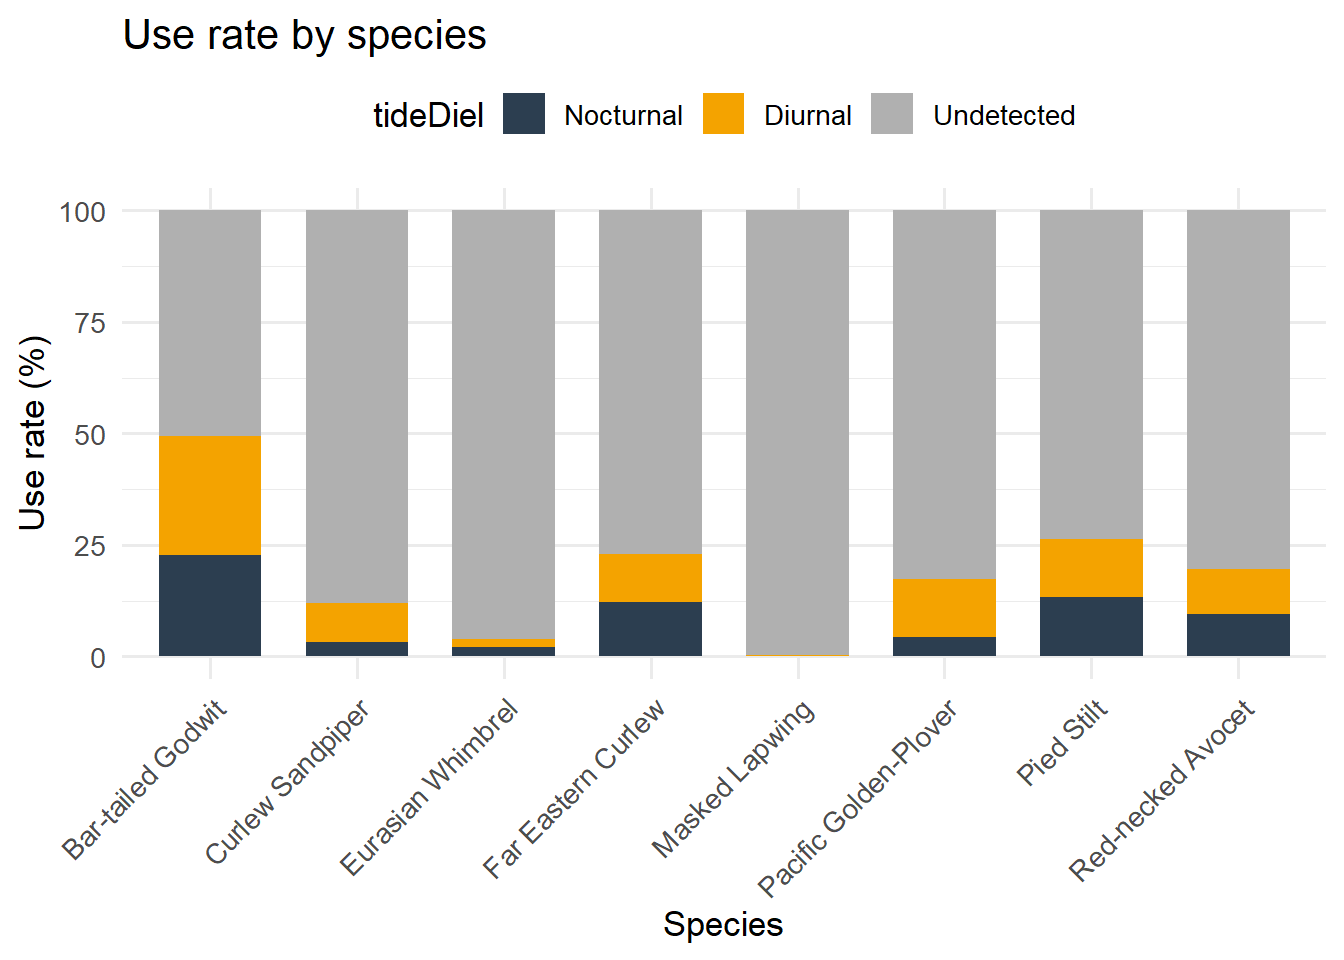
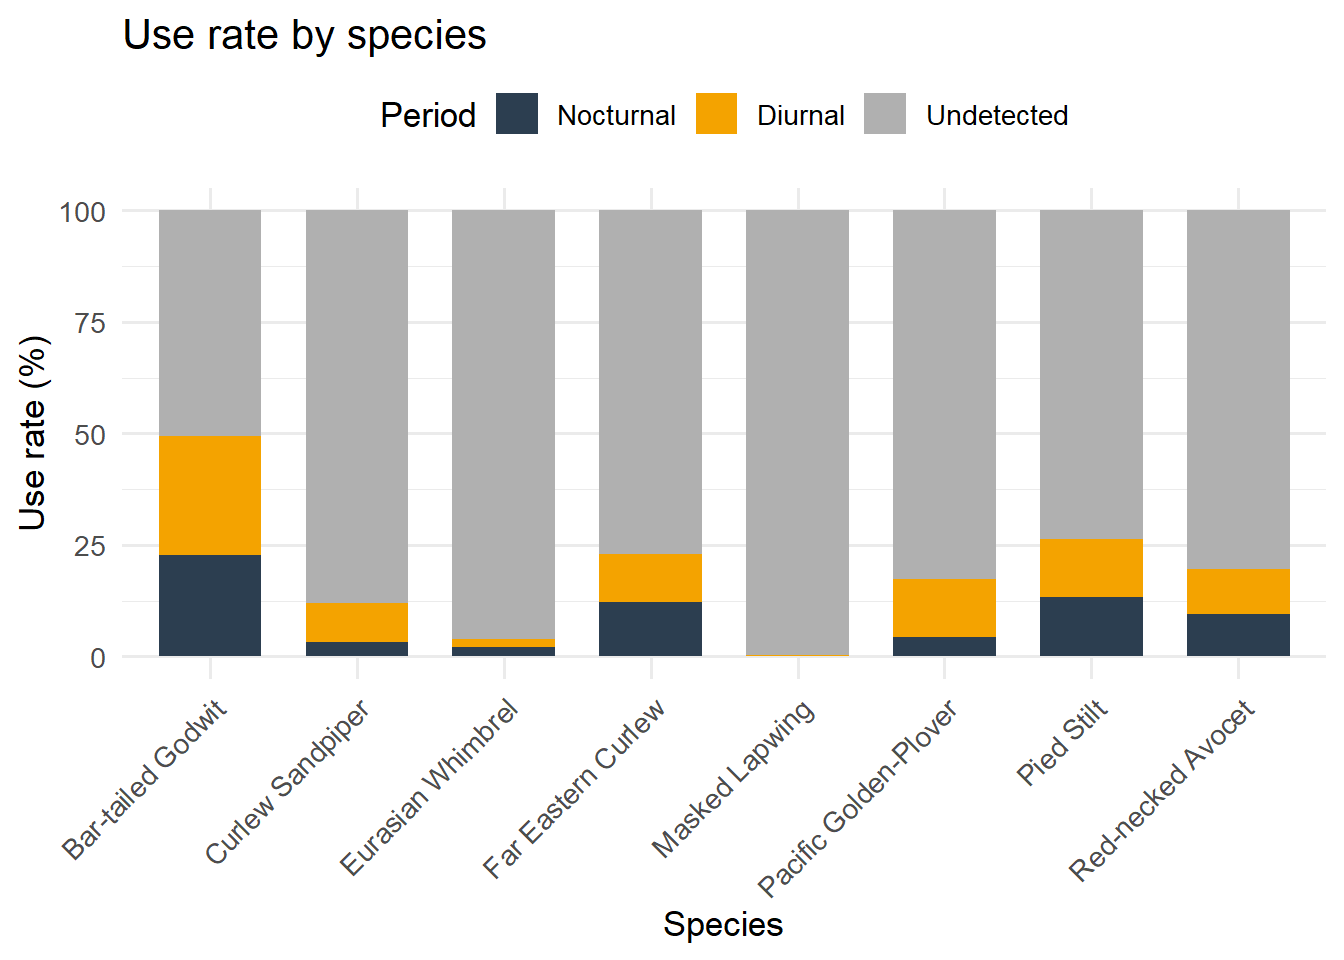
Update

Changed region(s): [[0.2812, 0.0938, 0.8125, 0.1562]]

diff --git a/docs/qmd/chapter_1/ch1_11.html b/docs/qmd/chapter_1/ch1_11.html
@@ -6,7 +6,7 @@
 
 <meta name="viewport" content="width=device-width, initial-scale=1.0, user-scalable=yes">
 
-<meta name="dcterms.date" content="2026-03-06">
+<meta name="dcterms.date" content="2026-09-01">
 
 <title>To-do-list – Home</title>
 <style>
@@ -434,7 +434,7 @@ ul.task-list li input[type="checkbox"] {
     <div>
     <div class="quarto-title-meta-heading">Published</div>
     <div class="quarto-title-meta-contents">
-      <p class="date">2026-03-06</p>
+      <p class="date">2026-09-01</p>
     </div>
   </div>
   
@@ -447,11 +447,7 @@ ul.task-list li input[type="checkbox"] {
 
 
 <ol type="1">
-<li><p><strong>[Station usage - hours]</strong> How to take into account amount of hours for the survey effort in several stations at once? Confirm with percentage.</p></li>
-<li><p><strong>[Station usage - hours]</strong> Look at the OBP method to assess presence periods of individuals at a Motus station (i.e., OFF pulse intervals)</p></li>
-<li><p><strong>[Station usage - hours]</strong> Distinguish ‘fly-bys’ with actual use of the station. So you can assess Fullerton Cove use when a bird FIFO, getting detected twice by the directional antenna (i.e., Bar-tailed Godwit). Color the estimate ‘fly-bys’ dot to give you an idea of the proportion of these vs.&nbsp;true staying in your Rate of Use box-plot.</p></li>
 <li><p><strong>[Motus server]</strong> Clear and clean issues in the Motus project (motus.org). Add photos and good descriptions/information in all stations.</p></li>
-<li><p><strong>[Location &amp; History]</strong> Create a dynamic map that shows for each station an ID sheet (antenna type, no SG, structure type, battery type, photo) and its log-book sheet, tracking the SG, power and structure maintenance history. Use <a href="https://survey123.arcgis.com/">Survey123</a> forms.</p></li>
 <li><p><strong>[Reports]</strong> Create an automated script to generate a small report per birds with figures showing graph of rate of use, detection condition, four maps (tide x time) showing with circle size the rate used per station and fetch a typical period with raw data recorded at the four tides across stations within 72H so we can tract the movement of the bird (trajectory with a map).</p></li>
 </ol>
 
